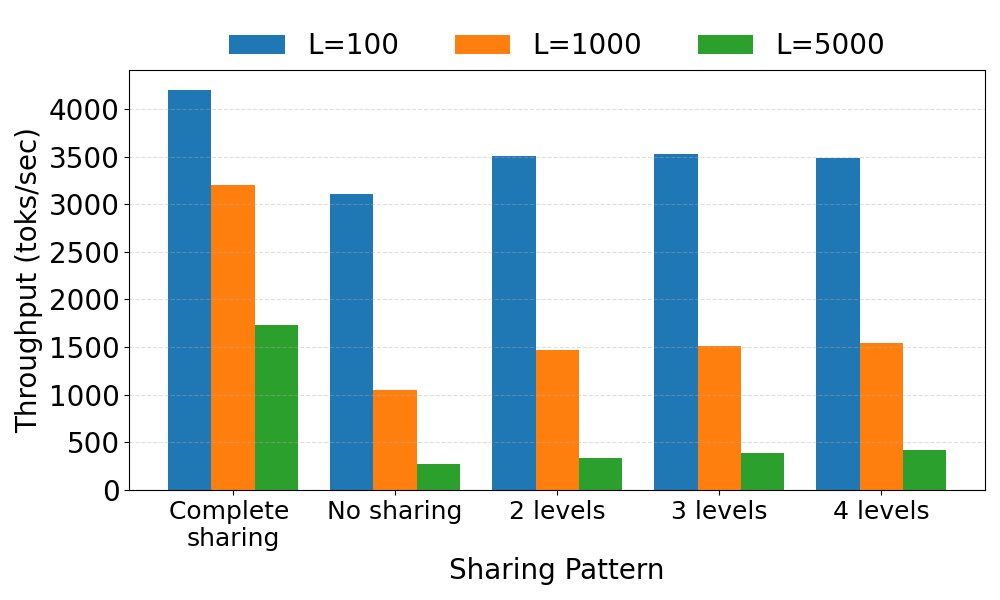
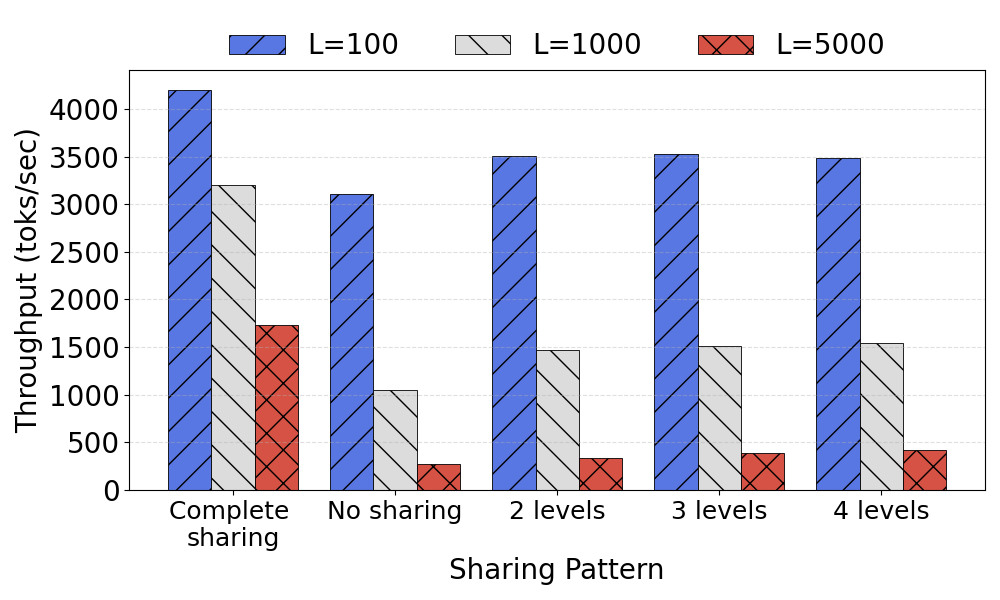
radix plots

diff --git a/code/vllm/plot_radix.py b/code/vllm/plot_radix.py
@@ -6,23 +6,19 @@ from collections import defaultdict
 # =========================
 # CONFIGURATION
 # =========================
+LOG_FILE = "/home/saksham/CS496/code/vllm/radix_tree_experiment_results.txt"
 
-LOG_FILE = "/home/saksham/CS496/code/vllm/radix_tree_experiment_results.txt"  # <-- change to your log file path
-
-# Fill this with your custom names
 RENAMING_MAP = {
     1: "Complete \nsharing",
     5: "No sharing",
     9: "2 levels",
     10: "3 levels",
     11: "4 levels",
-    # Add more if needed
 }
 
 # =========================
 # PARSE LOG FILE
 # =========================
-
 pattern = re.compile(
     r"Mode (\d+), L=(\d+).*?Throughput: ([\d.]+) req/sec"
 )
@@ -40,7 +36,6 @@ with open(LOG_FILE, "r") as f:
             mode = int(match.group(1))
             L = int(match.group(2))
             throughput = float(match.group(3))
-
             data[mode][L] = throughput
             all_L_values.add(L)
             all_modes.add(mode)
@@ -51,40 +46,34 @@ all_modes = sorted(all_modes)
 # =========================
 # PREPARE DATA FOR PLOTTING
 # =========================
-
 num_modes = len(all_modes)
 num_L = len(all_L_values)
 
 x = np.arange(num_modes)
-bar_width = 0.8 / num_L  # keep bars compact
+bar_width = 0.8 / num_L
+
+# Define hatches and colors
+HATCHES = ['/', '\\', 'x', 'o', '+', '-', '|', '.', '*', 'O']
+COLORS = plt.cm.coolwarm(np.linspace(0.1, 0.9, num_L))
 
 plt.figure(figsize=(10, 6))
 
 for i, L in enumerate(all_L_values):
     throughputs = []
     for mode in all_modes:
-        throughputs.append(data[mode].get(L, 0)*50)  # 0 if missing
+        throughputs.append(data[mode].get(L, 0) * 50)
 
     offset = (i - num_L / 2) * bar_width + bar_width / 2
-    bars = plt.bar(x + offset, throughputs, width=bar_width, label=f"L={L}")
-
-    # === ADD THIS BLOCK TO PRINT VALUES ON TOP ===
-    # for bar in bars:
-    #     height = bar.get_height()
-    #     if height > 0:  # avoid printing 0 bars
-    #         plt.text(
-    #             bar.get_x() + bar.get_width() / 2,
-    #             height,
-    #             f"{height:.1f}",     # format (change decimals if needed)
-    #             ha="center",
-    #             va="bottom",
-    #             fontsize=12,
-    #             rotation=0,
-    #         )
-
-# =========================
-# LABELING
-# =========================
+    bars = plt.bar(
+        x + offset,
+        throughputs,
+        width=bar_width,
+        label=f"L={L}",
+        color=COLORS[i],
+        hatch=HATCHES[i % len(HATCHES)],
+        edgecolor='black',
+        linewidth=0.6,
+    )
 
 mode_labels = [
     RENAMING_MAP.get(mode, f"Mode {mode}")
@@ -95,15 +84,15 @@ plt.xticks(x, mode_labels, fontsize=18)
 plt.yticks(fontsize=20)
 plt.ylabel("Throughput (toks/sec)", fontsize=20)
 plt.xlabel("Sharing Pattern", fontsize=20)
-# plt.title("Throughput Across Sharing for Different L Values")
+
 plt.legend(
     fontsize=20,
     loc="upper center",
-    bbox_to_anchor=(0.5, 1.15),  # move legend above plot
-    ncol=len(all_L_values),      # put all L values in one row
+    bbox_to_anchor=(0.5, 1.15),
+    ncol=len(all_L_values),
     frameon=False
 )
-plt.grid(axis="y", linestyle="--", alpha=0.4)
 
+plt.grid(axis="y", linestyle="--", alpha=0.4)
 plt.tight_layout()
 plt.savefig("../../results/tp_different_modes_sharing_at_top.png")
